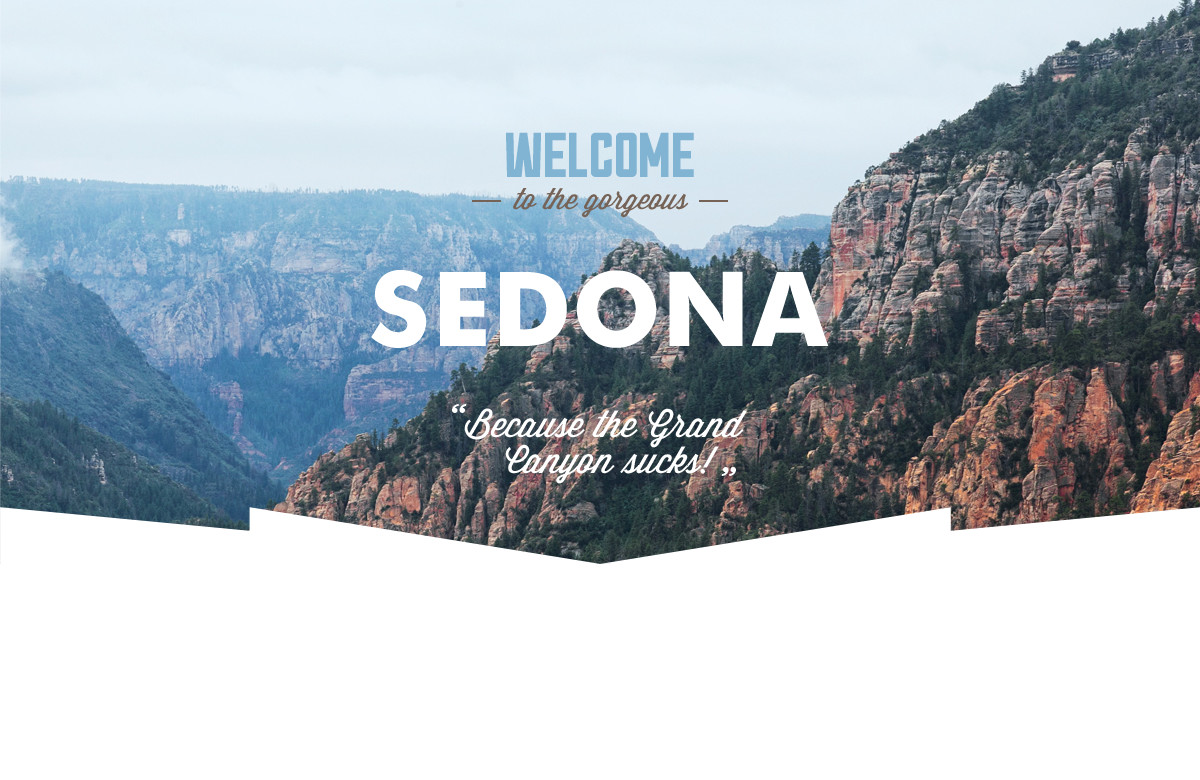
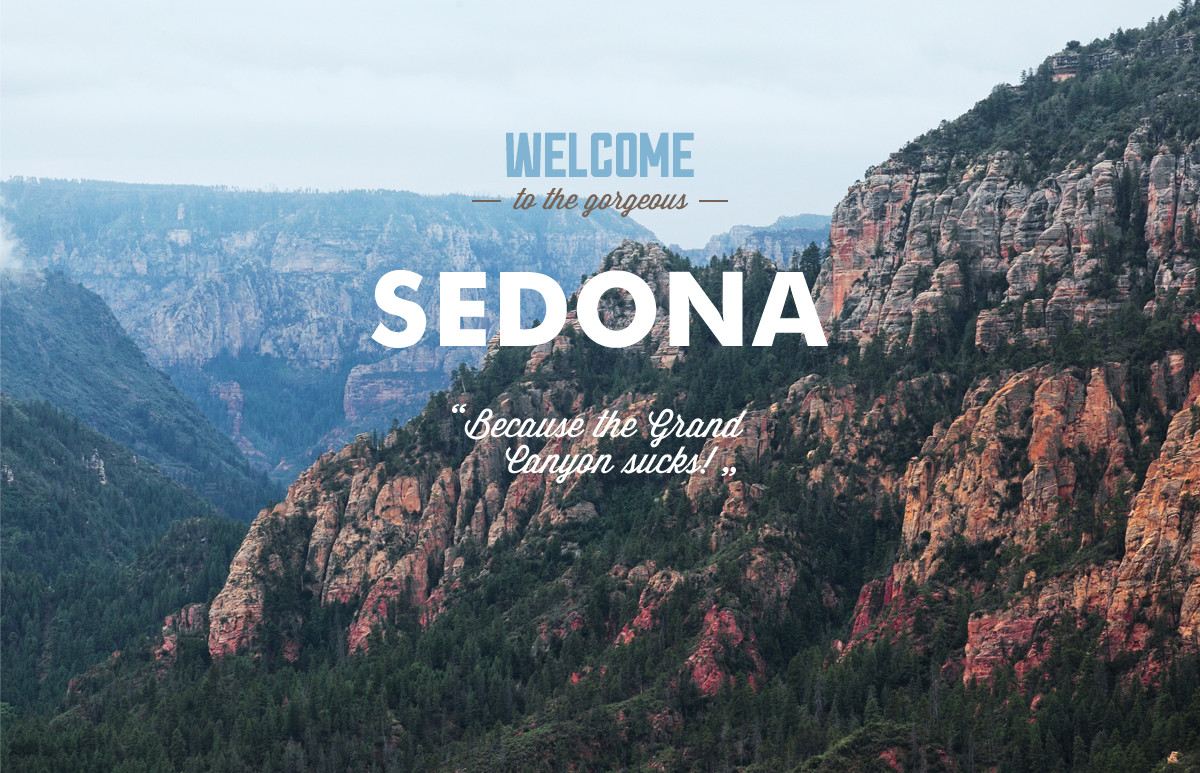
header index

diff --git a/index.html b/index.html
@@ -1,116 +1,118 @@
 <!DOCTYPE html>
 <html lang="ru">
   <head>
+    <link href="css/style.css" rel="stylesheet">
     <meta charset="utf-8">
     <title>HTML Academy: Седона</title>
   </head>
   <body>
-      <header class="main-header">
-          <link href="css/style.css" rel="stylesheet">
-          <div class="container">
-              <div class="logo">
-                  <img src="img/logo.png" width="137" height="69" alt="sedona">
+      <div class="common-container">
+          <header class="main-header">
+              <div class="container-background">
+                      <div class="main-manu">
+                          <ul>
+                              <li class="main-menu-button"><a href="#">Информация</a></li>
+                              <li class="main-menu-button"><a href="#">Фото и видио</a></li>
+                              <li class="main-menu-button"><a href="#">Гостиницы</a></li>
+                              <li class="main-menu-button"><a href="#">Карта штата</a></li>
+                          </ul>
+                      </div>
+                      <div class="logo">
+                          <img src="img/logo.png" width="137" height="69" alt="sedona">
+                      </div>
+                      <div class="form">
+                          <img src="img/form.png" width="1200" height="266" alt="background">
+                      </div>
+                      <div class="title">
+                          <h1 class="title-text">Седона - это небольшой городок в Аризоне, заслуживающий большего!</h1>
+                          <p>Рассмотрим 5 причин, по которым Седона круче, чем Гранд Коньон!</p>
+                      </div>
               </div>
-              <div class="main-manu">
-                  <ul>
-                      <li><a href="#">Информация</a></li>
-                      <li><a href="#">Фото и видио</a></li>
-                      <li><a href="#">Карта штата</a></li>
-                      <li><a href="#">Гостиницы</a></li>
-                  </ul>
-              </div>
-          </div>
-          <div class="picture">
-              <img src="img/picture.jpg" width="1200" height="717" alt="picture">
-          </div>
-      </header>
-      <main class="container">
-          <div class="title">
-              <h1 class="title-text">Седона - это небольшой городок в Аризоне, заслуживающий большего!</h1>
-              <p>Рассмотрим 5 причин, по которым Седона круче, чем Гранд Коньон!</p>
-          </div>
-          <div class="cause-1">
-              <div class="cause-blue">
-                  <h2 class="cause white">Настоящий городок</h2>
-                  <p>-№1-</p>
-                  <p>Седона не атракцион для туристов, там течет своя жизнь</p>
-              </div>
-              <img src="img/real-city-foto.jpg" width="800" height="255" alt="real-city-foto">
-              <div class="cause-iteams">
-                  <div class="square">
-                      <img src="img/house.gif" width="76" height="73" alt="house">
-                      <h3>Жилье</h3>
-                      <p>Рекомендуем пожить в настоящем мотеле, все как в кина!</p>
+          </header>
+          <main class="container">
+              
+              <div class="cause-1">
+                  <div class="cause-blue">
+                      <h2 class="cause white">Настоящий городок</h2>
+                      <p>-№1-</p>
+                      <p>Седона не атракцион для туристов, там течет своя жизнь</p>
                   </div>
-                  <div class="square">
-                      <img src="img/hamburger.gif" width="75" height="71" alt="hamburger">
-                      <h3>Еда</h3>
-                      <p>Всегда заказывайте фирменный бургер, вы не разочаруетесь!</p>
+                  <img src="img/real-city-foto.jpg" width="800" height="255" alt="real-city-foto">
+                  <div class="cause-iteams">
+                      <div class="square">
+                          <img src="img/house.gif" width="76" height="73" alt="house">
+                          <h3>Жилье</h3>
+                          <p>Рекомендуем пожить в настоящем мотеле, все как в кина!</p>
+                      </div>
+                      <div class="square">
+                          <img src="img/hamburger.gif" width="75" height="71" alt="hamburger">
+                          <h3>Еда</h3>
+                          <p>Всегда заказывайте фирменный бургер, вы не разочаруетесь!</p>
+                      </div>
+                      <div class="square">
+                          <img src="img/gift.gif" width="65" height="77" alt="gift">
+                          <h3>Сувениры</h3>
+                          <p>Не только Китайского, но и местного производства!</p>
+                      </div>
                   </div>
-                  <div class="square">
-                      <img src="img/gift.gif" width="65" height="77" alt="gift">
-                      <h3>Сувениры</h3>
-                      <p>Не только Китайского, но и местного производства!</p>
+              </div>
+              <div class="cause-2">
+                  <img src="img/devil's-bridge-foto.jpg" width="800" height="255" alt="devil's-bridge-foto">
+                  <div class="cause-blue">
+                      <h2 class="cause white">Там есть мост дьявола</h2>
+                      <p>-№2-</p>
+                      <p>Да, по нему можно пройти! Если конечно вы осмелитесь</p>
                   </div>
               </div>
-          </div>
-          <div class="cause-2">
-              <img src="img/devil's-bridge-foto.jpg" width="800" height="255" alt="devil's-bridge-foto">
-              <div class="cause-blue">
-                  <h2 class="cause white">Там есть мост дьявола</h2>
-                  <p>-№2-</p>
-                  <p>Да, по нему можно пройти! Если конечно вы осмелитесь</p>
+              <div class="cause-3">
+                  <div class="square">
+                      <h2 class="cause dark">Небольшая площадь</h2>
+                      <p>-№3-</p>
+                      <p>Все достопримечательности находятся очень близко</p>
+                  </div>
               </div>
-          </div>
-          <div class="cause-3">
-              <div class="square">
-                  <h2 class="cause dark">Небольшая площадь</h2>
-                  <p>-№3-</p>
-                  <p>Все достопримечательности находятся очень близко</p>
+              <div class="cause-4">
+                  <div class="square">
+                      <h2 class="cause dark">Красивая дорога</h2>
+                      <p>-№4-</p>
+                      <p>Ехать в Седону из Лас-Вегаса совсем не скучно!</p>
+                  </div>
               </div>
-          </div>
-          <div class="cause-4">
-              <div class="square">
-                  <h2 class="cause dark">Красивая дорога</h2>
-                  <p>-№4-</p>
-                  <p>Ехать в Седону из Лас-Вегаса совсем не скучно!</p>
+              <div class="cause-5">
+                  <div class="square">
+                      <h2 class="cause darck">Мало туристов</h2>
+                      <p>-№5-</p>
+                      <p>Большенство едет в Гранд Каньон и толпится там</p>
+                  </div>
               </div>
-          </div>
-          <div class="cause-5">
-              <div class="square">
-                  <h2 class="cause darck">Мало туристов</h2>
-                  <p>-№5-</p>
-                  <p>Большенство едет в Гранд Каньон и толпится там</p>
-              </div>
-          </div>
-          <div class="search-for-hotels">
-              <p>Заинтересовались?</p>
-              <p>Укажите предпологаемые даты поездки, и мы покажем вам лучшие предложения гостиниц в Седоне</p>
-              <button>Поиск гостиницы в Седоне</button>
-              <form action="#" method="get">
-                  <label for="input-1">
-                         Дата заезда:
-                         <input type="date" id="input-1">
-                         <img src="#" width="10" height="10" alt="the calendar">
-                  </label>
-                  <label for="input-2">
-                         Дата выезда:
-                         <input type="date" id="input-2">
-                         <img src="#" width="10" height="10" alt="the calendar">
-                  </label>
-                  <label >
-                         Взрослые:
-                         <input type="number">
-                  </label>
-                  <label>
-                         Дети:
-                         <input type="number">
-                  </label>
-                  <input type="submit" name="Search" value="Найти">
-              </form>
-              <img src="img/map-sedona.jpg" width="600" height="160" alt="Map Sedona">
-          </div>
-      </main>
+              <div class="search-for-hotels">
+                  <p>Заинтересовались?</p>
+                  <p>Укажите предпологаемые даты поездки, и мы покажем вам лучшие предложения гостиниц в Седоне</p>
+                  <button>Поиск гостиницы в Седоне</button>
+                  <form action="#" method="get">
+                      <label for="input-1">
+                             Дата заезда:
+                             <input type="date" id="input-1">
+                             <img src="#" width="10" height="10" alt="the calendar">
+                      </label>
+                      <label for="input-2">
+                             Дата выезда:
+                             <input type="date" id="input-2">
+                             <img src="#" width="10" height="10" alt="the calendar">
+                      </label>
+                      <label >
+                             Взрослые:
+                             <input type="number">
+                      </label>
+                      <label>
+                             Дети:
+                             <input type="number">
+                      </label>
+                      <input type="submit" name="Search" value="Найти">
+                  </form>
+                  <img src="img/map-sedona.jpg" width="600" height="160" alt="Map Sedona">
+               </div>
+          </main>
       <footer class="main-footer">
           <section class="visitsedona">
               <a href="#">#visitsedona</a>
@@ -125,5 +127,6 @@
               <a href="#"><img src="img/htmlacademy.gif" width="114" height="41" alt="HTMLAcademy"></a>
           </section>
       </footer>
+      </div>
    </body>
 </html>

diff --git a/css/style.css b/css/style.css
@@ -1,9 +1,75 @@
+html {
+   
+}
+
 body {
+    /*min-height: 2776px;*/
     font-size: 14px;
     line-height: 1.5;
     color: #333333;
     font-weight: normal;
-    font-family: "PT Sans Narrow Bold", "Trebuchet MS", Helvetica, sans-serif;    
+    font-family: "PT Sans Narrow Bold", "Trebuchet MS", Helvetica, sans-serif;  
+    margin: 0;
+}
+
+.common-container {
+    background: #000000 url("../img/sedona-index-1200.jpg") no-repeat 50% 0;
+    background-size: 1280px auto;
+    width: 1200px;
+    margin: auto;
+}
+
+.main-header {
+    min-height: 765px;
+}
+
+.container-background {
+    /*background: #ffffff url("../img/picture.jpg") no-repeat 50%;*/
+    min-height: 765px;
+}
+
+/*.clearfix::after {
+    content: "";
+    display: table;
+    clear: both;
+}*/
+
+.main-manu {
+    background-color: white;
+}
+
+ul {
+    padding: 0;
+    font-size: 0;
+}
+
+.main-menu-button {
+    display: inline-block;
+    width: 239px;
+    height: 56px;
+    font-size: 14px;
+}
+
+.main-menu-button:nth-child(3){
+    margin-left: 244px;
+}
+
+.logo {
+    position: relative;
+    top: -56px;
+    left: 530px;
+}
+
+.form {
+    position: relative;
+    top: 368px;
+}
+
+.title {
+    position: relative;
+    top: 200px;
+    color: black;
+    text-align: center;
 }
 
 .title-text,
